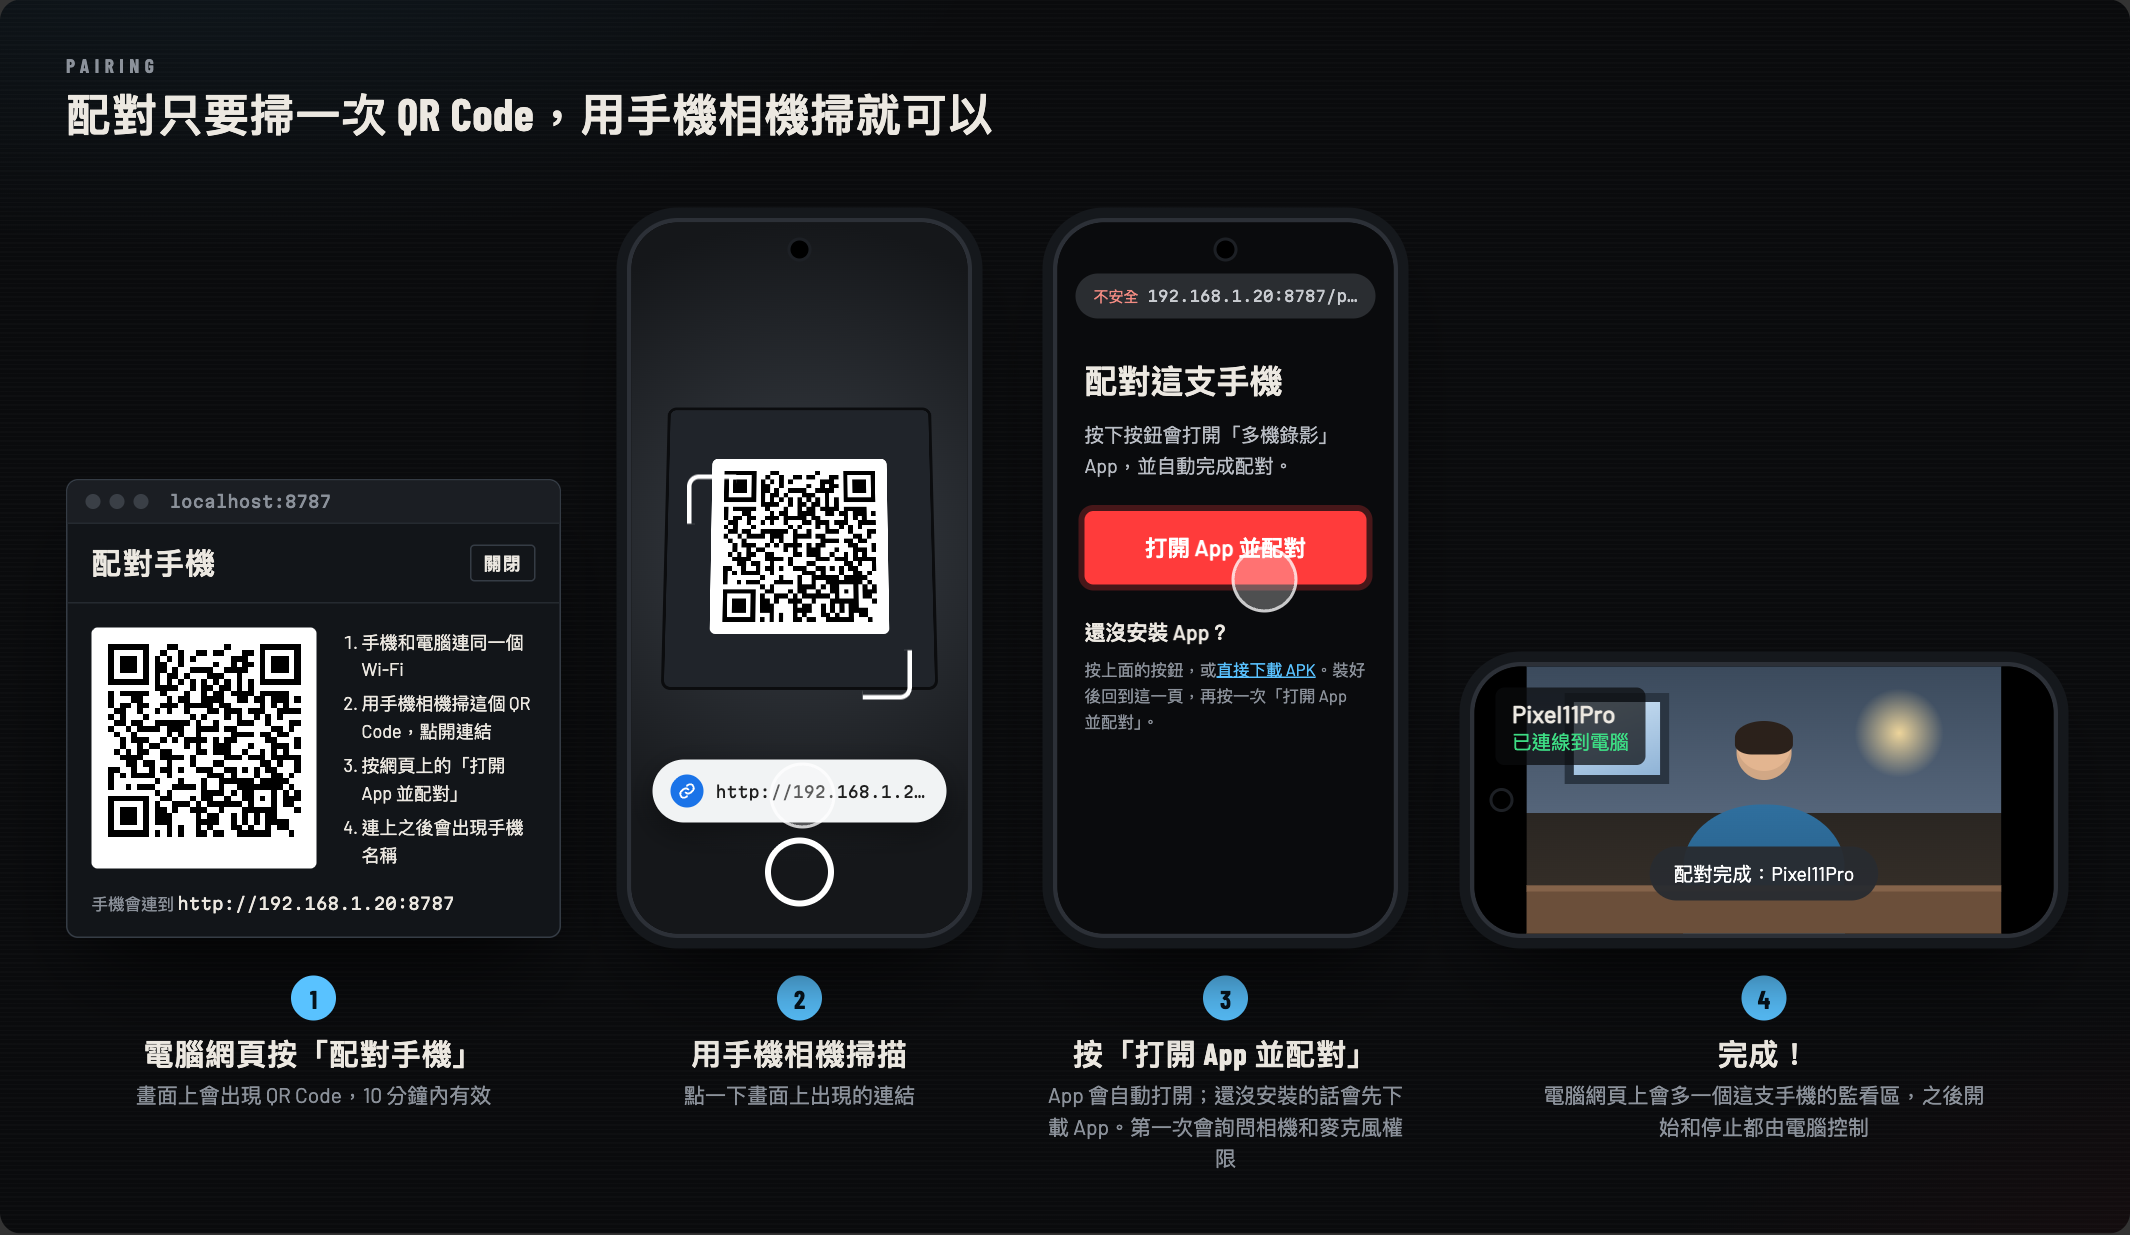
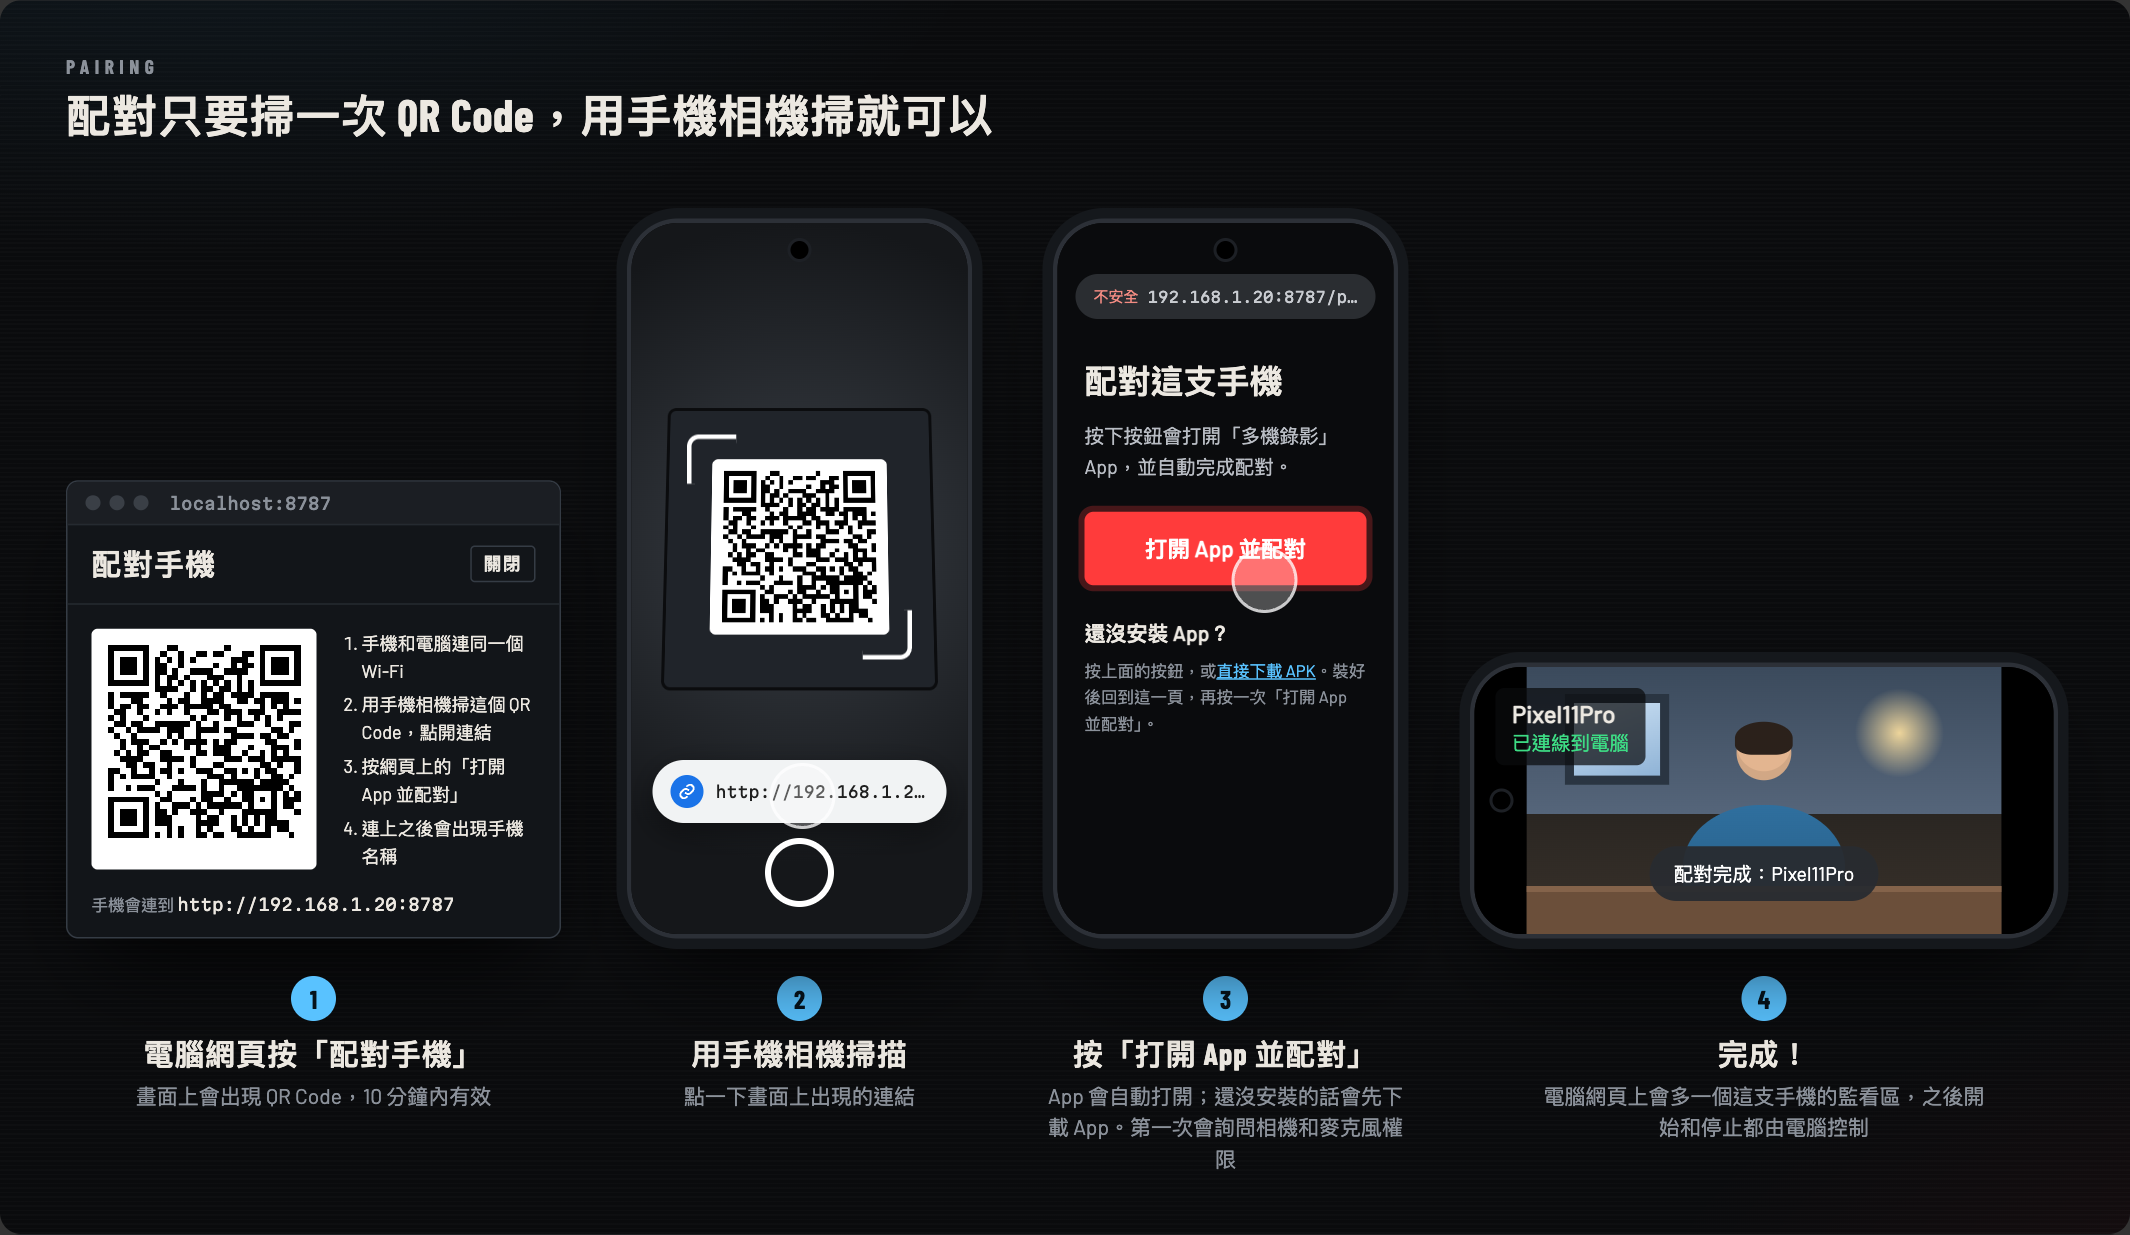
配對示意圖：手機相機畫面的掃描框對準 QR Code
掃描框原本比 QR Code 低 27px（mockups.html 的 .cam-view .frame 是 top: 168px）；改成 141px，和 QR Code 同一個中心，上下左右留白一樣。重截 pairing.png，README 和產品網站共用這張。

diff --git a/docs/mockups.html b/docs/mockups.html
@@ -152,7 +152,7 @@ body { margin: 0; padding: 30px; background: #333; font-family: var(--body); col
 .cam-view { position: absolute; inset: 0; background: radial-gradient(circle at 50% 45%, #3a3f46, #15171a 75%); }
 .cam-view .monitor { position: absolute; left: 22px; right: 22px; top: 120px; height: 190px; border-radius: 6px; background: #20242a; border: 2px solid #0b0c0e; transform: perspective(500px) rotateX(8deg); display: grid; place-items: center; }
 .cam-view .monitor .qr { width: 118px; padding: 5px; }
-.cam-view .frame { position: absolute; left: 50%; top: 168px; width: 150px; height: 150px; transform: translateX(-50%); }
+.cam-view .frame { position: absolute; left: 50%; top: 141px; width: 150px; height: 150px; transform: translateX(-50%); }
 .cam-view .frame::before, .cam-view .frame::after { content: ''; position: absolute; width: 30px; height: 30px; border: 3px solid #fff; }
 .cam-view .frame::before { left: 0; top: 0; border-right: 0; border-bottom: 0; border-radius: 8px 0 0 0; }
 .cam-view .frame::after { right: 0; bottom: 0; border-left: 0; border-top: 0; border-radius: 0 0 8px 0; }
